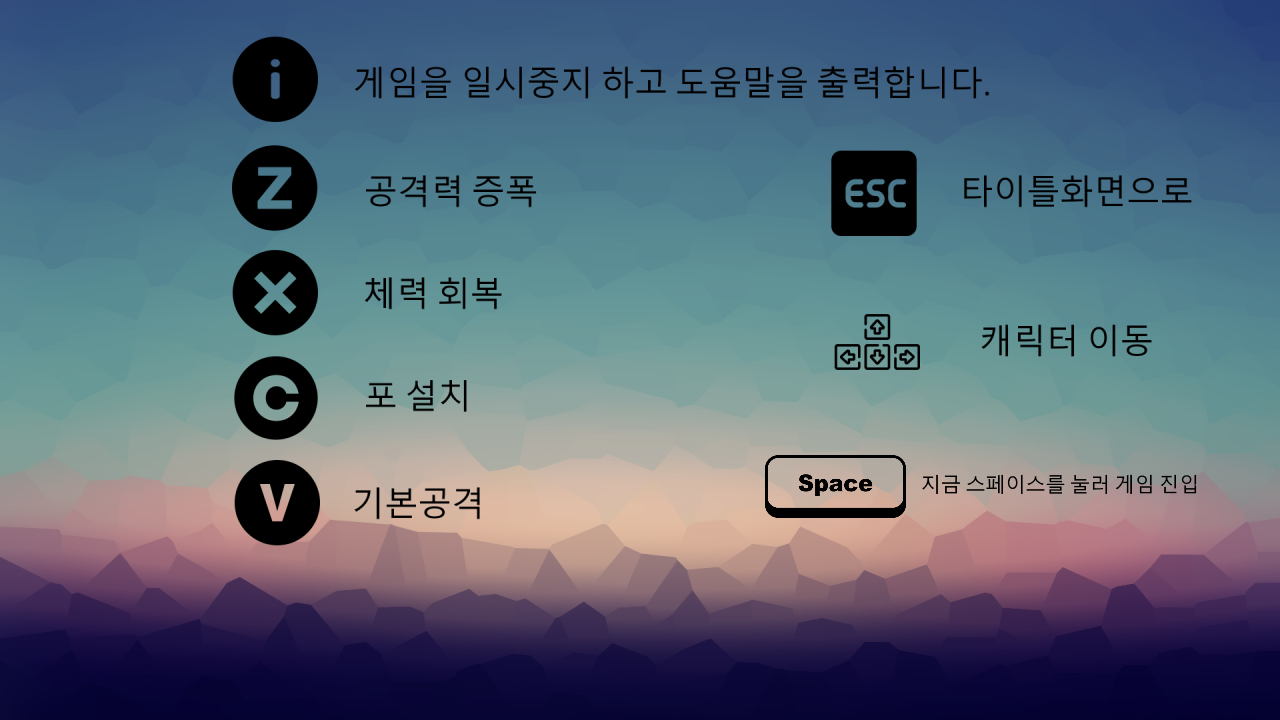
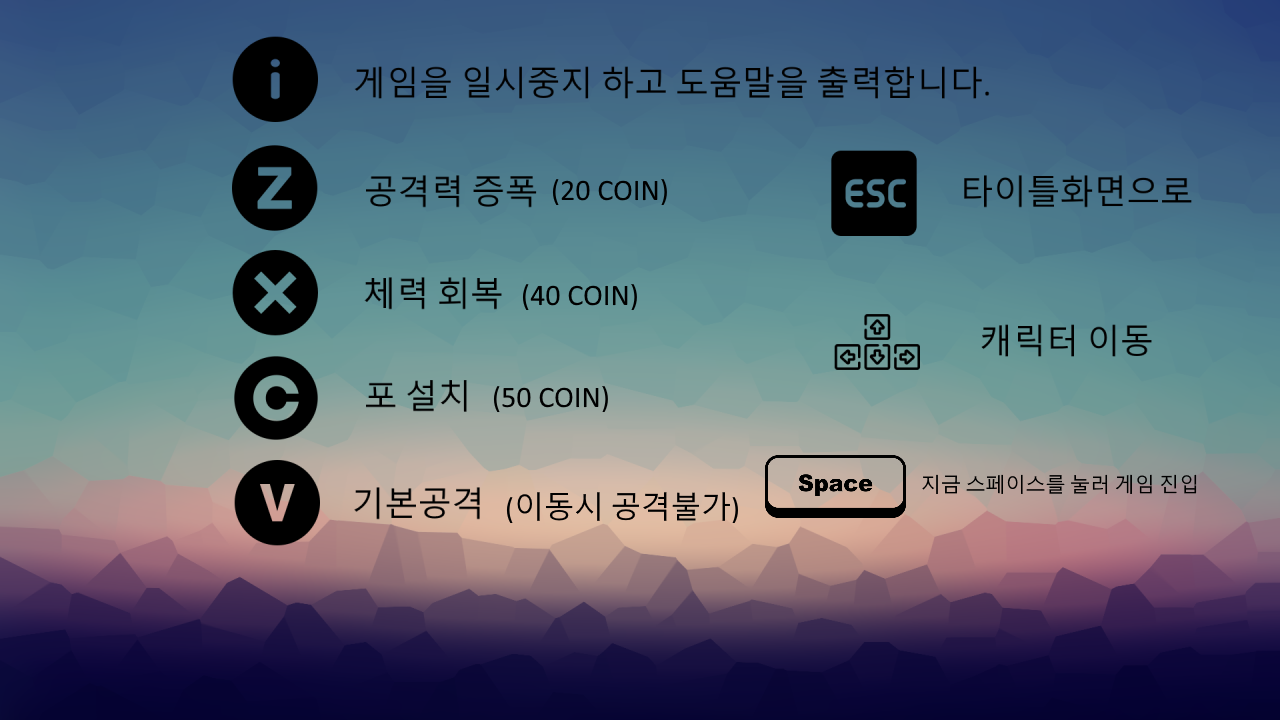
구조물이 제대로 제거 안되던 버그 수정, 포탄 설치갯수 제한 버그 수정, 코인 비용 안내 문구 타이틀에 추가

diff --git a/second_play_state.py b/second_play_state.py
@@ -11,6 +11,7 @@ import title_state
 from tree import Tree
 import second_game_clear_state
 from special_goblin import Special_goblin
+from boss_monster import Boss_monster
 
 boy = None
 
@@ -30,6 +31,7 @@ def handle_events():
 
 goblin_crowd = None
 special_monster_condition = 0
+bossmonster_condition = 0
 fortress1 = None
 fortress2 = None
 fortress3 = None
@@ -38,6 +40,7 @@ tree2 = None
 
 # 초기화
 def enter():
+    game_world.collision_group.clear()
     game_world.background_state = 'summer'
     global boy, goblin_crowd, font
     global fortress1, fortress2, fortress3, tree1, tree2
@@ -88,6 +91,26 @@ def update():
             print('COLLISION ', group)
             a.handle_collision(b, group)
             b.handle_collision(a, group)
+
+    global bossmonster_condition
+    if game_world.second_state_normal_goblin_cnt == 8 and bossmonster_condition == 0: #보스몬스터 출현
+        bossmonster_condition = 1
+        bosses = [Boss_monster() for i in range(2)]
+
+        for i in range(2):
+            game_world.add_object(bosses[i], 1)
+
+        game_world.add_collision_pairs(None, bosses, 'my_bullet:boss')
+        game_world.add_collision_pairs(boy, bosses, 'boy:boss')
+        game_world.add_collision_pairs(fortress1, bosses, 'fortress1:boss')
+        game_world.add_collision_pairs(fortress2, bosses, 'fortress2:boss')
+        game_world.add_collision_pairs(tree1, bosses, 'tree1:boss')
+        game_world.add_collision_pairs(tree2, bosses, 'tree2:boss')
+        game_world.add_collision_pairs(None, bosses, 'my_bullet:boss')
+        game_world.add_collision_pairs(None, bosses, 'my_cannon:boss')
+        game_world.add_collision_pairs(None, bosses, 'cannon_bullet:boss')
+
+
     global special_monster_condition
     if game_world.second_state_normal_goblin_cnt == 11 and special_monster_condition == 0:
         special_monster_condition = 1
@@ -108,7 +131,7 @@ def update():
         game_world.add_collision_pairs(None, special_goblins, 'cannon_bullet:special_goblin')
     
     #클리어 조건
-    if game_world.second_state_normal_goblin_cnt <= 0 and game_world.second_stage_special_goblin_cnt <= 0:
+    if game_world.second_state_normal_goblin_cnt <= 0 and game_world.second_stage_special_goblin_cnt <= 0 and game_world.second_boss_cnt <= 0:
         game_framework.change_state(second_game_clear_state)
 
 

diff --git a/character.py b/character.py
@@ -79,13 +79,13 @@ class RUN:
         elif event == LU:
             self.dir += 1
         elif event == UD:
-            self.diry += 3
+            self.diry += 2
         elif event == UU:
-            self.diry -= 3
+            self.diry -= 2
         elif event == DD:
-            self.diry -= 3
+            self.diry -= 2
         elif event == DU:
-            self.diry += 3
+            self.diry += 2
 
 
     def exit(self, event):
@@ -190,7 +190,7 @@ class Character:
         self.cur_state = IDLE
         self.cur_state.enter(self, None) #초기상태의 entry 액션 수행
         self.hp = 600
-        self.cannon_cnt = 0
+        # self.cannon_cnt = 0
         self.hp_UI = load_image('resources/ui/hp.png')
         self.fire_sound = load_wav('resources/sound/effect/fire_sound.wav')
         self.fire_sound.set_volume(70)
@@ -199,8 +199,6 @@ class Character:
         self.power = 60
         self.power_up_sound = load_wav('resources/sound/effect/power_up.wav')
         self.power_up_sound.set_volume(60)
-        # self.cannon_install_sound = load_music()
-        # self.cannon_install_sound.set_volume(60)
         #적 처치시 코인 획득, 초기 코인 50
 
         self.font = load_font('resources/system/game_font.ttf', 60)
@@ -265,12 +263,12 @@ class Character:
 
     def install_cannon(self):
         print('install cannon')
-        if self.cannon_cnt >= 3:
+        if game_world.cannon_cnt >= 3:
             pass
         elif game_world.coin < 50:
             pass
         else:
-            self.cannon_cnt += 1
+            game_world.cannon_cnt += 1
             my_cannon = Cannon(self.x, self.y)
             game_world.add_object(my_cannon, 1)
             game_world.add_collision_pairs(my_cannon, None, 'my_cannon:goblin_crowd')

diff --git a/game_world.py b/game_world.py
@@ -13,14 +13,18 @@ first_boss_cnt = 1
 
 second_state_normal_goblin_cnt = 20
 second_stage_special_goblin_cnt = 3
+second_boss_cnt = 2
 
 third_state_normal_goblin_cnt = 30
 third_stage_special_goblin_cnt = 6
-third_boss_cnt = 1
+third_boss_cnt = 3
 
 coin = 0
 character_power = 40
 background_state = 'spring'
+cannon_cnt = 0
+
+remove_stage_object = 1
 
 def add_object(o, depth):
     objects[depth].append(o)
@@ -44,6 +48,10 @@ def clear():
         del o
     for layer in objects:
         layer.clear()
+
+#test
+    for o in all_collision_pairs():
+        del o
 
 def add_collision_pairs(a, b, group):
     if group not in collision_group:

diff --git a/cannon.py b/cannon.py
@@ -28,8 +28,8 @@ class Cannon:
             game_world.add_collision_pairs(cannon_bullet, None, 'cannon_bullet:boss')
             game_world.add_collision_pairs(cannon_bullet, None, 'cannon_bullet:special_goblin')
         if self.hp <= 0:
-            game_world.remove_collision_object(self)
             game_world.remove_objects(self)
+
 
     def get_bb(self):
         return self.x - 43, self.y - 47, self.x + 59, self.y + 38

diff --git a/boss_monster.py b/boss_monster.py
@@ -68,6 +68,8 @@ class Boss_monster:
         if self.hp <= 0:
             if game_world.background_state == 'spring':
                 game_world.first_boss_cnt -= 1
+            elif game_world.background_state == 'summer':
+                game_world.second_boss_cnt -= 1
             elif game_world.background_state == 'winter':
                 game_world.third_boss_cnt -= 1
 

diff --git a/first_game_clear_state.py b/first_game_clear_state.py
@@ -2,6 +2,7 @@ from pico2d import *
 import game_framework
 import second_play_state
 import game_world
+from character import Character
 
 image = None
 sound = None
@@ -12,6 +13,8 @@ def enter(): #객체 생성하는 함수
     sound.set_volume(70)
     sound.play()
     print('enter first_game_clear_state')
+    game_world.cannon_cnt = 0
+
 
 def exit():
     global image

diff --git a/second_game_clear_state.py b/second_game_clear_state.py
@@ -1,3 +1,4 @@
+import game_world
 from pico2d import *
 import game_framework
 import third_play_state
@@ -10,6 +11,7 @@ def enter(): #객체 생성하는 함수
     sound = load_wav('resources/sound/system/stage_clear.wav')
     sound.set_volume(70)
     sound.play()
+    game_world.cannon_cnt = 0
 
 def exit():
     global image

diff --git a/third_play_state.py b/third_play_state.py
@@ -38,6 +38,7 @@ tree2 = None
 tree3 = None
 # 초기화
 def enter():
+    game_world.collision_group.clear()
     game_world.background_state = 'winter'
     global boy, goblin_crowd, font
     global fortress1, fortress2, fortress3
